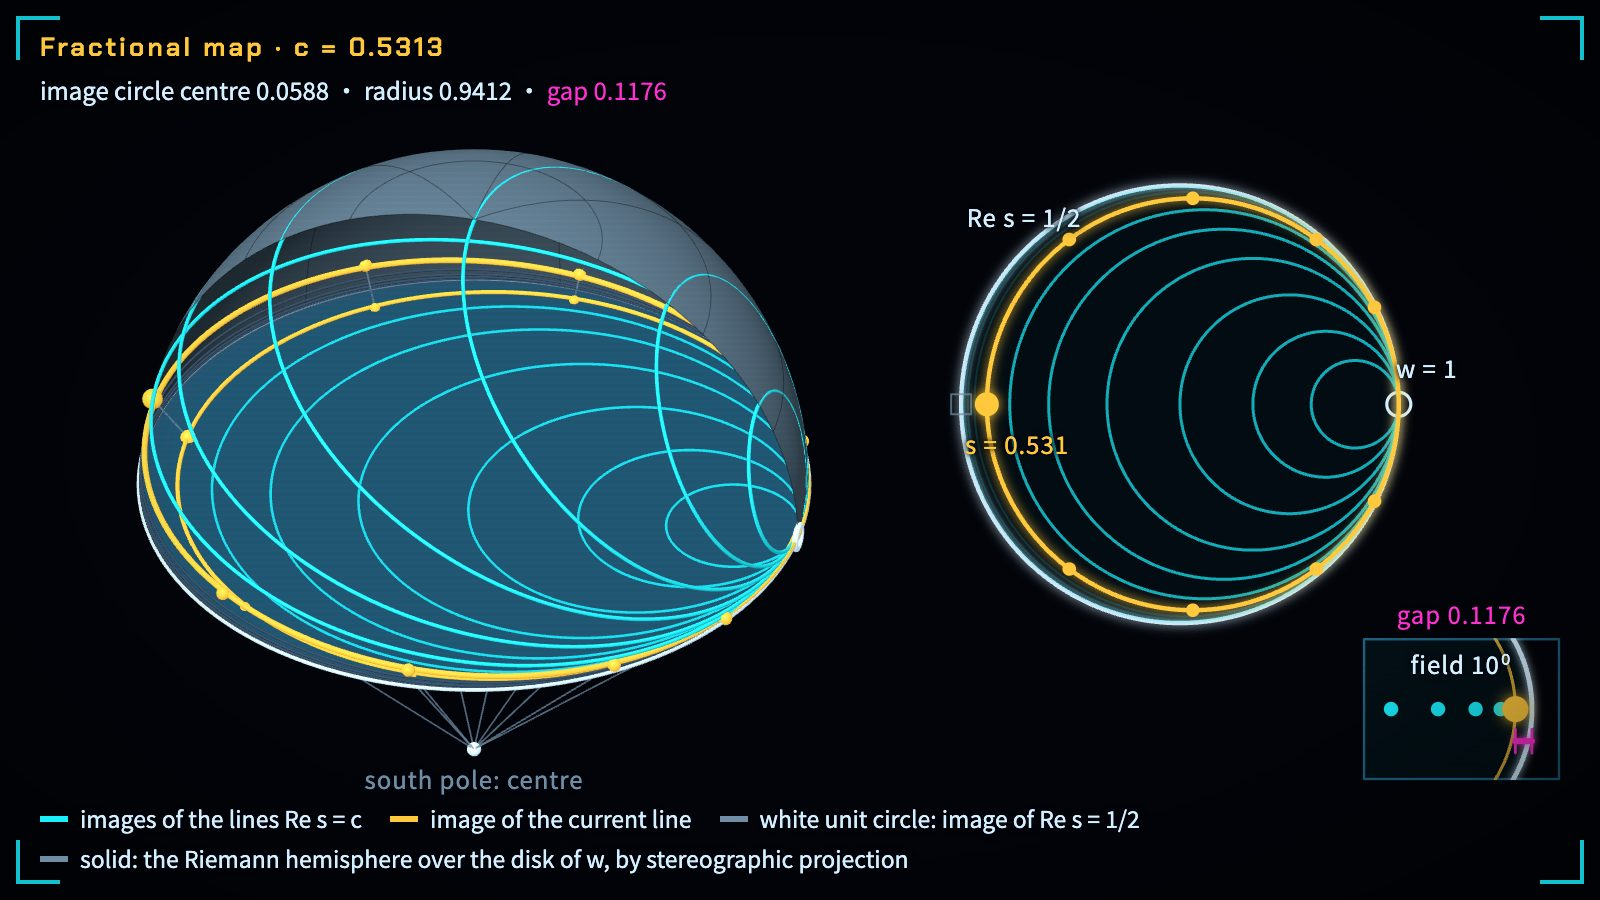
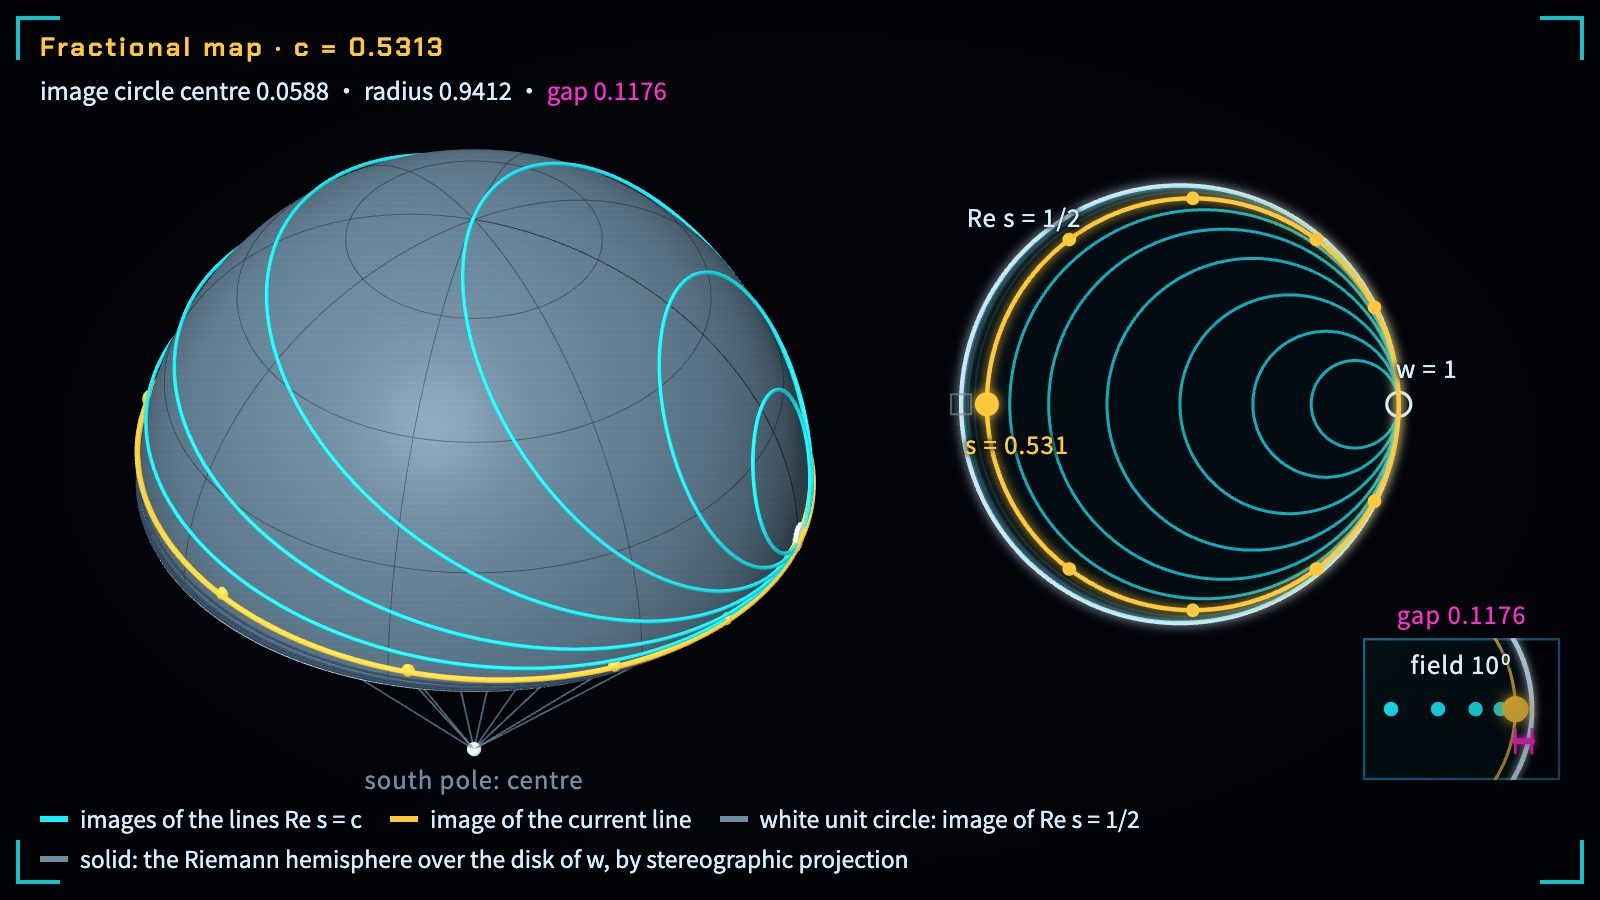
Correct vector labels and complete the Cayley hemisphere

diff --git a/books/quantum-geometry/viz/forgetting-rebirth-attractor/main.js b/books/quantum-geometry/viz/forgetting-rebirth-attractor/main.js
@@ -545,18 +545,20 @@
   }
   function drawCayley3(md) {
     const st = stage, px = 1 / F3.unit, words = !TRV.thumbMode;
-    st.surface('dome', (th, ph) => w3([Math.sin(th) * Math.cos(ph), Math.sin(th) * Math.sin(ph), Math.cos(th)]), { u: [0, Math.PI / 2], v: [0, Math.PI], nu: 28, nv: 48, color: P.dim, grid: { every: [7, 12] } });
+    // the whole upper hemisphere, opaque: the disk of w and what lies on it are inside it, hidden as a solid hides them
+    st.surface('dome', (th, ph) => w3([Math.sin(th) * Math.cos(ph), Math.sin(th) * Math.sin(ph), Math.cos(th)]), { u: [0, Math.PI / 2], v: [0, 2 * Math.PI], nu: 28, nv: 96, color: P.dim, grid: { every: [7, 12] } });
     st.surface('wdisk', (r, ph) => w3([r * Math.cos(ph), r * Math.sin(ph), 0]), { u: [0, 1], v: [0, 2 * Math.PI], nu: 8, nv: 72, color: P.lineHot });
     st.tube('equator', arcPts(1, 0, 0, 2 * Math.PI, 144).map(w3), { color: P.ink, width: 2.2, glow: 0.3 });
-    const onSphere = (pts, lift0) => pts.map((w) => { const p = lift(w), k = 1 - lift0; return w3([p[0] * k, p[1] * k, p[2] * k]); });
+    // a lifted circle as a tube of `width` pixels lying on the sphere: its axis one tube radius (and a hair) outside it
+    const onSphere = (pts, width) => pts.map((w) => { const p = lift(w), k = 1 + (0.5 * width * st.lw + 0.4) / st.unit; return w3([p[0] * k, p[1] * k, p[2] * k]); });
     for (let j = 0; j <= 10; j++) {
       if (Math.abs(j - md.tNow) < 1e-9) continue;
       const done = j <= md.jInt, pts = imageCircle(cOf(j), 160), col = done ? P.cyan : P.faint;
-      st.tube(`lift${j}`, onSphere(pts, (done ? 1.2 : 0.7) * px), { color: col, width: done ? 2 : 1.2, glow: done ? 0.3 : 0.1 });
+      st.tube(`lift${j}`, onSphere(pts, done ? 2 : 1.2), { color: col, width: done ? 2 : 1.2, glow: done ? 0.3 : 0.1 });
       st.line(pts.map((w) => w3([w[0], w[1], 0.6 * px])), { color: col, width: done ? 1.3 : 0.9, alpha: done ? 0.9 : 0.6 });
     }
     const now = imageCircle(md.c, 200);
-    st.tube('liftNow', onSphere(now, 1.6 * px), { color: P.amber, width: 3, glow: 0.45 });
+    st.tube('liftNow', onSphere(now, 3), { color: P.amber, width: 3, glow: 0.45 });
     st.tube('diskNow', now.map((w) => w3([w[0], w[1], 1.2 * px])), { color: P.amber, width: 2.2, glow: 0.45 });
     // the samples s = c + iyc: their images w on the disk, their lifts on the hemisphere, and the projection lines
     for (const q of md.samples) st.line([w3(md.south), w3(q.p)], { color: P.dim, width: 0.9, alpha: 0.7 });

diff --git a/books/quantum-geometry/viz/self-referential-table/main.js b/books/quantum-geometry/viz/self-referential-table/main.js
@@ -416,13 +416,18 @@
       if (Math.abs(tij) > 1e-9) st.line([near(toW(O), lift + 2), near(toW(sh), lift + 2)], { color: P.amber, width: 4.5 });
       st.line([near(toW(cc), lift), near(toW(sh), lift)], { color: P.ink, width: 1.2, dash: [3, 3], alpha: 0.6 });
       bead('read', sh, P.amber, 4.5);
-      const same = Math.hypot(rc[0] - cc[0], rc[1] - cc[1], rc[2] - cc[2]) < 0.15;
-      if (same) tagIn('row', toW(tip(rc, 0.2)), L(`第 ${S.i + 1} 行 = 第 ${S.j + 1} 列`, `row ${S.i + 1} = column ${S.j + 1}`), 'raw ink');
-      else {
+      // “=” only where row i and column j are the same N numbers (a diagonal cell; or rank 1, every cell 1/N): tested
+      // on all of ℝᴺ, not on the arrows. Arrows that merely land close together share one label, which says “≠”.
+      const cj = T.map((row) => row[S.j]), equal = T[S.i].every((x, k) => Math.abs(x - cj[k]) <= 1e-12);
+      const near3 = Math.hypot(rc[0] - cc[0], rc[1] - cc[1], rc[2] - cc[2]) < 0.15, label = equal ? 'equal' : near3 ? 'shared' : 'apart';
+      if (label !== 'apart') {
+        const rel = equal ? '=' : '≠', mid = rc.map((x, k) => (x + cc[k]) / 2);
+        tagIn('row', toW(tip(equal ? rc : mid, 0.2)), L(`第 ${S.i + 1} 行 ${rel} 第 ${S.j + 1} 列`, `row ${S.i + 1} ${rel} column ${S.j + 1}`), 'raw ink');
+      } else {
         tagIn('row', toW(tip(rc, 0.2)), L(`第 ${S.i + 1} 行`, `row ${S.i + 1}`), 'raw ink');
         tagIn('col', toW(tip(cc, 0.2)), L(`第 ${S.j + 1} 列`, `column ${S.j + 1}`), 'raw ink');
       }
-      out.read = { i: S.i, j: S.j, rc: rc.slice(), cc, shadow: sh, tij };
+      out.read = { i: S.i, j: S.j, rc: rc.slice(), cc, shadow: sh, tij, equal, label };
     } else if (sc === 'perp' && hasPerp()) {  // ψ(θ), its reading Tψ = cos θ·v₁ and the part sin θ·w in the complement
       const V = perpVecs(), ps = sliceOf(sl, V.psi), tp = sliceOf(sl, V.Tpsi), v1 = sliceOf(sl, V.v), w = sliceOf(sl, V.w), th = thetaOf() * DEG;
       const arc = [];
